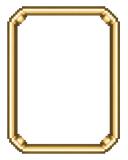
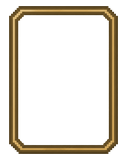
Refine M5.0A action button visuals

Changed region(s): [[0.0312, 0.0312, 0.9375, 0.9688]]

diff --git a/tools/export_m50a_button_frames.py b/tools/export_m50a_button_frames.py
@@ -1,4 +1,4 @@
-"""Derive consistent M5.0A button-frame variants from one generated master."""
+"""Derive consistent M5.0A button-frame and inner-glow variants."""
 
 from __future__ import annotations
 
@@ -9,10 +9,10 @@ from PIL import Image, ImageOps
 
 
 EXPORTS = {
-    "move": ("#073744", "#53e7ff", "#ecfdff"),
-    "attack": ("#421014", "#ff4e55", "#fff1f1"),
-    "crystallize": ("#2f1745", "#b86cff", "#f8eaff"),
-    "end_turn": ("#413113", "#e9b95f", "#fff6d8"),
+    "move": ("#062c39", "#43cce2", "#a9edf6"),
+    "attack": ("#391014", "#df4650", "#f6a4a7"),
+    "crystallize": ("#29143c", "#9c5dcc", "#d5acee"),
+    "end_turn": ("#382b12", "#c99b4c", "#e7cc94"),
 }
 
 RUNTIME_SIZE = (128, 160)
@@ -54,17 +54,47 @@ def export_variant(source: Image.Image, destination: Path, palette: tuple[str, s
         raise ValueError(f"invalid exported frame: {destination}")
 
 
+def export_inner_glow(source: Image.Image, destination: Path, palette: tuple[str, str, str]) -> None:
+    """Keep the generated glow's low placement while scaling it into the runtime slot."""
+    fitted = ImageOps.contain(source, CONTENT_SIZE, Image.Resampling.LANCZOS)
+    alpha = fitted.getchannel("A")
+    grayscale = ImageOps.grayscale(fitted.convert("RGB"))
+    recolored = ImageOps.colorize(
+        grayscale,
+        black=palette[0],
+        mid=palette[1],
+        white=palette[2],
+    ).convert("RGBA")
+    recolored.putalpha(alpha)
+
+    canvas = Image.new("RGBA", RUNTIME_SIZE, (0, 0, 0, 0))
+    canvas.alpha_composite(
+        recolored,
+        ((canvas.width - recolored.width) // 2, (canvas.height - recolored.height) // 2),
+    )
+    destination.parent.mkdir(parents=True, exist_ok=True)
+    canvas.save(destination, format="PNG", optimize=True)
+    checked = Image.open(destination).convert("RGBA")
+    if checked.size != RUNTIME_SIZE or checked.getpixel((0, 0))[3] != 0:
+        raise ValueError(f"invalid exported inner glow: {destination}")
+
+
 def main() -> None:
     parser = argparse.ArgumentParser()
-    parser.add_argument("source", type=Path)
+    parser.add_argument("frame_source", type=Path)
+    parser.add_argument("glow_source", type=Path)
     parser.add_argument("destination", type=Path)
     args = parser.parse_args()
 
-    source = Image.open(args.source).convert("RGBA")
+    frame_source = Image.open(args.frame_source).convert("RGBA")
+    glow_source = Image.open(args.glow_source).convert("RGBA")
     for name, palette in EXPORTS.items():
-        destination = args.destination / f"button_frame_glow_{name}.png"
-        export_variant(source, destination, palette)
-        print(f"Wrote {destination}")
+        frame_destination = args.destination / f"button_frame_glow_{name}.png"
+        export_variant(frame_source, frame_destination, palette)
+        print(f"Wrote {frame_destination}")
+        glow_destination = args.destination / f"button_inner_glow_{name}.png"
+        export_inner_glow(glow_source, glow_destination, palette)
+        print(f"Wrote {glow_destination}")
 
 
 if __name__ == "__main__":

diff --git a/时间循环玩法/项目记忆_新对话接续.md b/时间循环玩法/项目记忆_新对话接续.md
@@ -133,20 +133,20 @@
 - M5.0B 固定敌人使用 E1/E2 映射、橙色完整路径/终点、从移动后终点发出的红色攻击线/危险格、等待标记和序列头像聚焦；顶部按“固定 N · 清醒 N”汇总。
 - 扰动时序已锁定：触发瞬间提示“已扰动·本回合行为仍已锁定”，保留当前意图并标记“下回合清醒”；下一回合起显示金色断钟与 `?`，不泄露实时 AI，当前时间线持续清醒并在结束后写回新历史。清醒状态不跨时间线继承；T2 新行为在 T3 先成为固定历史，只有 T3 再次发生有效扰动才重新清醒。
 - D-032 已由用户实际试玩验收：分身重演不因发生位移本身扰动。所有分身结束后，将敌人实际位置与固定意图起点比较；匹配代表历史成功还原，保持固定，偏离或缺少固定意图才进入“待醒”。多个分身的中间位置不单独判定，本体新增有效位移仍即时扰动。
-- M5.0C 的关键门禁是：玩家不读日志也能在 2—3 秒内指出每名固定敌人的行为、扰动对象与清醒时点；三种手机比例、六关可玩和当前 206/146 项测试基线不得回退。
+- M5.0C 的关键门禁是：玩家不读日志也能在 2—3 秒内指出每名固定敌人的行为、扰动对象与清醒时点；三种手机比例、六关可玩和当前 206/160 项测试基线不得回退。
 - M5.0A 已从三套同风格候选中选定第一套“时间控制台”；用户特别认可右上角固定/清醒状态标签，选定稿归档为 `demo/art_concepts/14_m50a_temporal_command_rail_selected.png`。
 - 首个 Godot 候选已实现顶部四段状态栏、固定/清醒真实计数、带本体/分身/敌人上半身立绘的行动卡，以及“录/定/待醒/醒”时间字标。
-- 底部仍为移动/攻击/固化/结束四个固定槽位，现已区分默认、选中、禁用和锁定；固化未解锁显示“锁定”，最后一命显示“末命”。
+- 底部仍为移动/攻击/固化/结束四个固定槽位，现已区分默认、选中、禁用和锁定；固化在可用、未解锁和最后一命状态都只显示单行“固化”，锁定与末命通过图标、禁用亮度和提示表达。
 - 状态显示直接读取 `BattleState.locked_enemy_intents`、意图的 `reactive` 和敌人的 `awake_from_turn`，未建立表现层第二套真相。
 - 新增 `capture_m50a_hud_review.gd`，可生成 390×844 的 T1 未知、T2 固定、T2 清醒三张真实状态评审图；三种手机比例无裁切。
 - 用户首轮复查要求行动卡不用显示全身，并重新明确清醒的跨线边界；现已改为统一上半身裁切，增加 T2 扰动→写回历史→T3 重新固化的隔离回归。
 - M5.0A 收尾候选已补齐七枚独立像素图标：移动、攻击、固化、结束、固定、清醒、锁定；运行时主按钮不再依赖字体符号，128×128 透明运行图和 ImageGen 原始/透明母版均已归档。
-- 用户确认七枚图标已达到效果图标准，但指出按钮底框缺少自发光细节；现已由一张 ImageGen 青色边框母版确定性派生青/红/紫/金四张 128×160 透明框，补齐斜角、双内沿、角部能量点和外辉光。默认、选中、禁用和教程聚焦只改变同一素材的亮度层级。
+- 用户确认七枚图标已达到效果图标准。首版补光边框因边框过亮、角部过重被要求重做；当前已按选定参考图使用新的 ImageGen 母版，确定性派生青/红/紫/金四张 128×160 柔和细框与四张底部弱光晕，移除夸张角点和白热轮廓，图标整体下移 5px。新母版归档为 `button_frame_soft_cyan_*` 与 `button_inner_glow_cyan_*`。
 - 第一关 T1/回合 1 新增非强制教程聚焦：移动按钮保持正常亮度并使用呼吸描边，其余按钮降低视觉权重但仍可辨认、仍沿用原有合法性；第一次移动后聚焦退出。
 - 新增 `capture_m50a_completion_review.gd`：输出教程聚焦和 T3/回合 6 Boss + Build 最大信息态。Boss 条包含名称、分段 HP、双状态和三项 Build，位于棋盘顶部未被 8×8 网格使用的空白带，不压缩棋盘；该态只做容量验证，不代表 Boss/Build 规则或专属资产完成。
 - Boss + Build 并非第 1—6 关中的任何一关；右上角“试玩工具”已新增“进入 M5.0A · Boss + Build 评审态”，进入后为只读展示，退出会返回原关卡。评审截图同时新增菜单入口画面，避免后续再次不知道如何验收。
 - 行动序列卡宽度微调为 44 px、间距 4 px，390×844 最大态可同时容纳两名分身、本体和四名敌人；360×800 常规态保持完整。
-- 自动验证当前为 206 项核心测试与 146 项界面/动画测试；菜单入口、教程态、Boss 上限态及 360×800、390×844、430×932 三种真实 OpenGL 画面均已复查，无裁切、关键遮挡或棋盘压缩。当前只待用户最终视觉验收；通过后关闭 M5.0A，再启动 M5.0B。
+- 自动验证当前为 206 项核心测试与 160 项界面/动画测试；菜单入口、教程态、Boss 上限态及 360×800、390×844、430×932 三种真实 OpenGL 画面均已复查，无裁切、关键遮挡或棋盘压缩。当前只待用户最终视觉验收；通过后关闭 M5.0A，再启动 M5.0B。
 
 ## UI 视觉方向（2026-08-04 已确认）
 
@@ -187,7 +187,7 @@
 3. **M5.0A 收尾候选待最终验收**：重点确认第一关教程聚焦、七枚独立图标和 Boss + Build 上限条是否清楚；首个时间控制台候选、上半身行动卡与 D-032 已通过，不需要重新选择视觉方向。
 4. **M5.1 前补齐范围决策**：确认目标受众、发布形式、20—30 分钟时长建议、精确节点图、最小 Build、坍缩作用，以及第二武器/监视/合并回放深度。
 5. **工程债务另行排序**：键盘/手柄、PC 宽屏、存档/重放入口、50 回合硬上限、重开当前时间线和正式音效不自动等同于 M5 首批范围。
-6. **继续保护基线**：六关可玩，360×800、390×844、430×932 不裁切，206 项核心测试与 146 项界面测试不得回退。
+6. **继续保护基线**：六关可玩，360×800、390×844、430×932 不裁切，206 项核心测试与 160 项界面测试不得回退。
 
 ## 项目定位
 
@@ -537,7 +537,7 @@ Boss 例外：
 
 打开 `game/project.godot` 后按 `F5`，先试玩并检查：
 
-1. 第 1 关开局的移动按钮是否能自然吸引第一眼；青色发光边框是否接近效果图，同时没有让攻击、固化、结束像“消失”。
+1. 第 1 关开局的移动按钮是否能自然吸引第一眼；新的柔和细边、按钮底部弱色光和下移后的图标是否与选定效果图一致，同时没有让攻击、固化、结束像“消失”。
 2. 通过右上角菜单进入“M5.0A · Boss + Build 评审态”，确认入口说明清楚、退出能返回原关卡。
-3. 最大信息态中，两名分身、本体、四名敌人、Boss 分段 HP/双状态和三项 Build 同屏时，是否仍能一眼找到棋盘和红色高亮攻击按钮。
+3. 最大信息态中确认红色高亮攻击按钮不过亮，四个按钮底部都有克制的对应色光晕，固化按钮只显示单行“固化”；同时确认两名分身、本体、四名敌人、Boss 分段 HP/双状态和三项 Build 同屏时仍能一眼找到棋盘。
 4. 用户确认后把 D-031 与 M5.0A 标记为已验证并关闭；下一开发项是 M5.0B 的逐敌人固定路径、终点、攻击线/危险格、等待标记、行动卡聚焦和“待醒→清醒”三段反馈。

diff --git a/时间循环玩法/项目TODO与设计决策.md b/时间循环玩法/项目TODO与设计决策.md
@@ -7,7 +7,7 @@
 ## 当前阶段
 
 - 目标：把已验证的 Godot 战斗纵向切片扩展为可供陌生玩家无讲解体验的竖版手机 Demo，覆盖战斗内信息产品化与战斗外最小闭环。
-- 当前工作：M5.0A “时间控制台”收尾候选已完成；七枚独立图标获用户认可，按钮底框已补同母版四色辉光细节，Boss + Build 评审态已加入试玩菜单入口，等待用户最终视觉验收。
+- 当前工作：M5.0A “时间控制台”收尾候选已按参考图二次校准；七枚独立图标获用户认可，按钮改为柔和细边、四色底部弱光晕和下移后的图标，固化标题统一为单行，Boss + Build 评审态已加入试玩菜单入口，等待用户最终视觉验收。
 - 当前议题：确认 M5.0A 收尾候选后关闭该里程碑，并进入 M5.0B 的逐敌人完整意图、行动卡聚焦与扰动时序表现。
 
 ## 设计决策记录
@@ -654,7 +654,7 @@
   - 顶部栏采用四段常驻结构：时间线、回合/已知状态、固定敌人数、清醒敌人数；T1 数量为 0 时标签降权但不消失，避免布局跳动。
   - 行动序列由纯文字小格升级为带本体/分身/敌人立绘的角色卡；分身显示“录”，固定敌人显示“定”，本回合已扰动但尚未清醒显示“待醒”，已清醒显示“醒”。
   - 行动卡只显示角色上半身，不在狭窄卡片内缩放完整全身；“清醒”只表示当前时间线状态，不暗示跨时间线永久继承。
-  - 底部继续保留移动、攻击、固化、结束四个固定槽位；正式候选区分默认、按下/选中、禁用与锁定，未解锁固化直接显示“锁定”，最后一命显示“末命”。
+  - 底部继续保留移动、攻击、固化、结束四个固定槽位；正式候选区分默认、按下/选中、禁用与锁定。固化按钮在可用、未解锁和最后一命状态都只显示单行“固化”，锁定与末命语义由图标、禁用亮度和提示承担。
   - 当前只实现 M5.0A 的 HUD 产品化，不提前实现 M5.0B 的逐敌人完整路径、从移动后终点发出的攻击线和点击行动卡聚焦。
 - 实现与验证：
   - 首个 Godot 候选已接入现有 `BattleScreen`，状态计数直接读取权威 `BattleState.locked_enemy_intents` 与敌人 `awake_from_turn`，不新增第二套时间状态。
@@ -662,11 +662,11 @@
   - 360×800、390×844、430×932 真实 OpenGL 画面保持完整 8×8、四按钮与触控尺寸。
   - 用户复查首版后要求行动卡改为上半身，并再次明确 D-015 的跨线边界；现已增加 T2 扰动、写回历史、T3 重新固化的核心回归。
   - 首个候选和 D-032 已通过用户试玩；收尾候选新增移动、攻击、固化、结束、固定、清醒和锁定七枚独立像素图标，不再依赖箭头、剑、菱形、沙漏等字体字符。
-  - 用户确认独立图标达到效果图标准；按钮底框随后补齐同母版派生的青/红/紫/金发光框，包含斜角、双内沿、角部能量点和外辉光，并由运行状态控制默认/选中/禁用/教程聚焦强度。
+  - 用户确认独立图标达到效果图标准；首版青/红/紫/金发光框因边框过强、角部过重被否决。第二版按选定参考图重制为暗外结构、窄色边、小斜角和柔和高光，新增独立四色底部弱光晕，图标视觉中心下移 5px；默认/选中/禁用/教程聚焦只在克制范围内改变强度。
   - 第一关开局新增非强制教程聚焦：移动按钮保持正常亮度并使用呼吸描边，其余按钮降权但仍可操作；第一次移动后立即退出，不改规则与合法输入。
   - 新增 T3/回合 6 的 Boss + Build 最大信息评审态：Boss 名称、分段 HP、双状态和三项 Build 压缩在棋盘顶部空白带内，不额外压缩 8×8 棋盘；该状态仅验证信息容量，不代表 Boss/Build 规则已实现。
   - Boss + Build 不属于六关；试玩工具新增只读评审入口，进入后可查看最大信息态，退出后回到原关卡。
-  - 自动验证为 206 项核心测试与 146 项界面/动画测试；四张代表状态和三种手机比例均已生成真实 OpenGL 画面，当前只待用户最终视觉验收。
+  - 自动验证为 206 项核心测试与 160 项界面/动画测试；四张代表状态和三种手机比例均已生成真实 OpenGL 画面，当前只待用户最终视觉验收。
 
 ### D-032 分身重演按历史一致性判定扰动
 

diff --git a/时间循环玩法/M5对外Demo与战斗内外UI规划.md b/时间循环玩法/M5对外Demo与战斗内外UI规划.md
@@ -47,11 +47,12 @@ M4 保持“已验收结项”。M5.0 是对既有战斗表现的产品化，不
 - 首个 Godot 可试玩候选已接入：顶部四段状态栏、固定/清醒逐敌人计数、带角色上半身立绘与“录/定/待醒/醒”标记的行动卡，以及默认/选中/禁用/锁定按钮状态。
 - 用户已实际试玩并验收首个 Godot 候选、上半身行动卡和 D-032 历史一致性扰动修订。
 - 收尾候选已补齐第一关非强制教程聚焦、移动/攻击/固化/结束四枚操作图标，以及固定/清醒/锁定三枚状态图标；运行时不再依赖字体符号充当主图标。
-- 用户确认七枚图标达到效果图标准；针对按钮底框细节不足，四个底框现从同一青色母版派生青/红/紫/金发光边框，补齐斜角、双层内沿、角部能量点和外辉光，并按默认/选中/禁用/教程聚焦调整强度。
+- 用户确认七枚图标达到效果图标准；针对首版底框过亮、角部过重的问题，四个底框已按选定参考图重制为暗色外结构、窄色边和克制高光，不再使用夸张角部能量点或白热轮廓。每个按钮内侧底部增加对应色的低亮度光晕，图标整体下移 5px。
+- 固化按钮在可用、未解锁与最后一命三种状态下都只显示单行“固化”；是否锁定继续由锁图标、禁用亮度和提示信息表达，不再在按钮下方重复“锁定/末命”文字。
 - 已生成 390×844 的 T1 未知、T2 固定、T2 清醒、Boss + Build 上限四类真实状态评审图，并通过 360×800、390×844、430×932 真实 OpenGL 布局检查。
 - Boss + Build 上限态把名称、分段 HP、双状态和三项 Build 放入棋盘顶部本来未被 8×8 网格使用的空白带，不额外压缩棋盘；该态是信息容量评审，不代表 Boss/Build 规则已完成。
 - Boss + Build 并非六关中的实际关卡；右上角“试玩工具”现提供明确的“进入 M5.0A · Boss + Build 评审态”入口，进入后为只读展示，退出可返回原关卡。
-- 206 项核心测试与 146 项界面/动画测试通过。当前仅等待用户最终视觉验收；通过后关闭 M5.0A 并进入 M5.0B。
+- 206 项核心测试与 160 项界面/动画测试通过。当前仅等待用户最终视觉验收；通过后关闭 M5.0A 并进入 M5.0B。
 
 交付物：
 
@@ -92,7 +93,7 @@ M4 保持“已验收结项”。M5.0 是对既有战斗表现的产品化，不
 - 玩家能指出哪个敌人已扰动、它本回合是否仍执行旧意图，以及从哪一回合开始清醒。
 - T1 未知、T2 全固定、固定/清醒混合、等待、路径交叉和 Boss 信息上限均有覆盖。
 - 360×800、390×844、430×932 无裁切、误触和关键遮挡。
-- 六关可玩，现有 206 项核心测试与 146 项界面/动画测试不得回退；新增状态需加入表现回归。
+- 六关可玩，现有 206 项核心测试与 160 项界面/动画测试不得回退；新增状态需加入表现回归。
 
 ### M5.1：战斗外 UX 流程与页面规格
 
